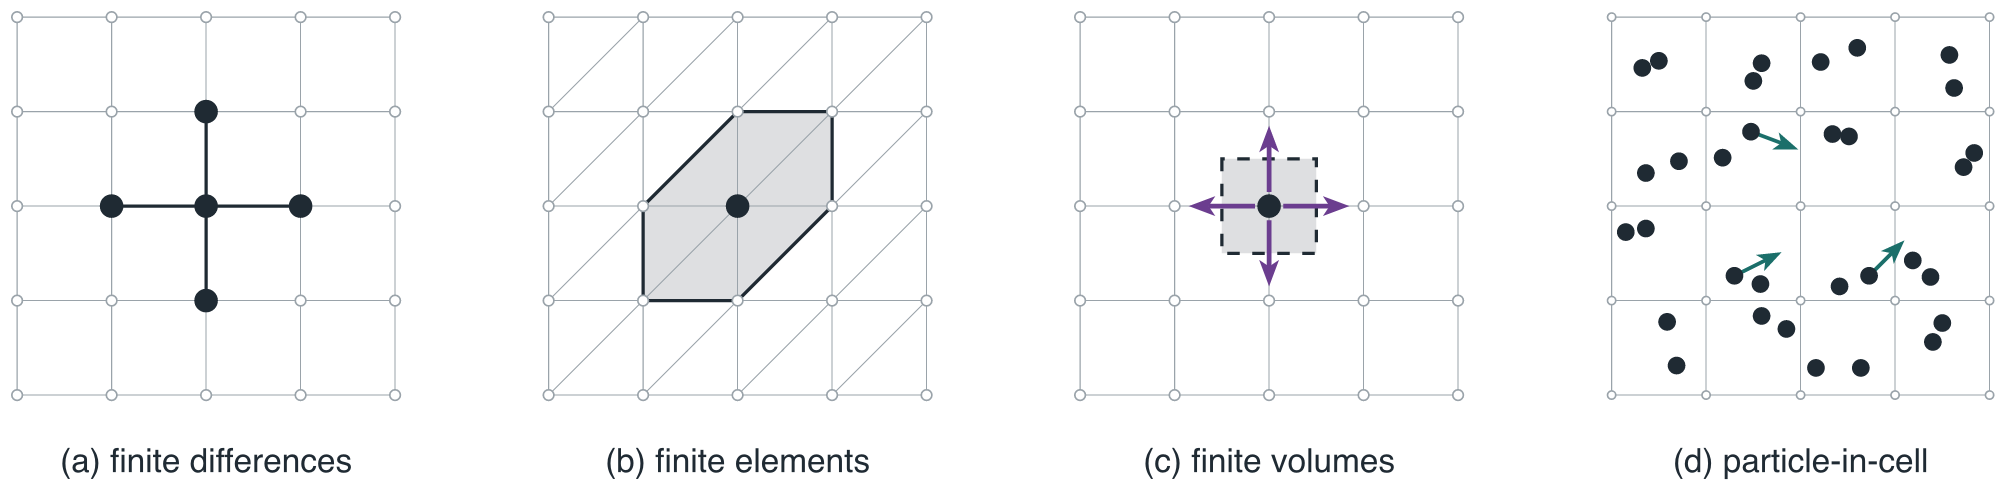
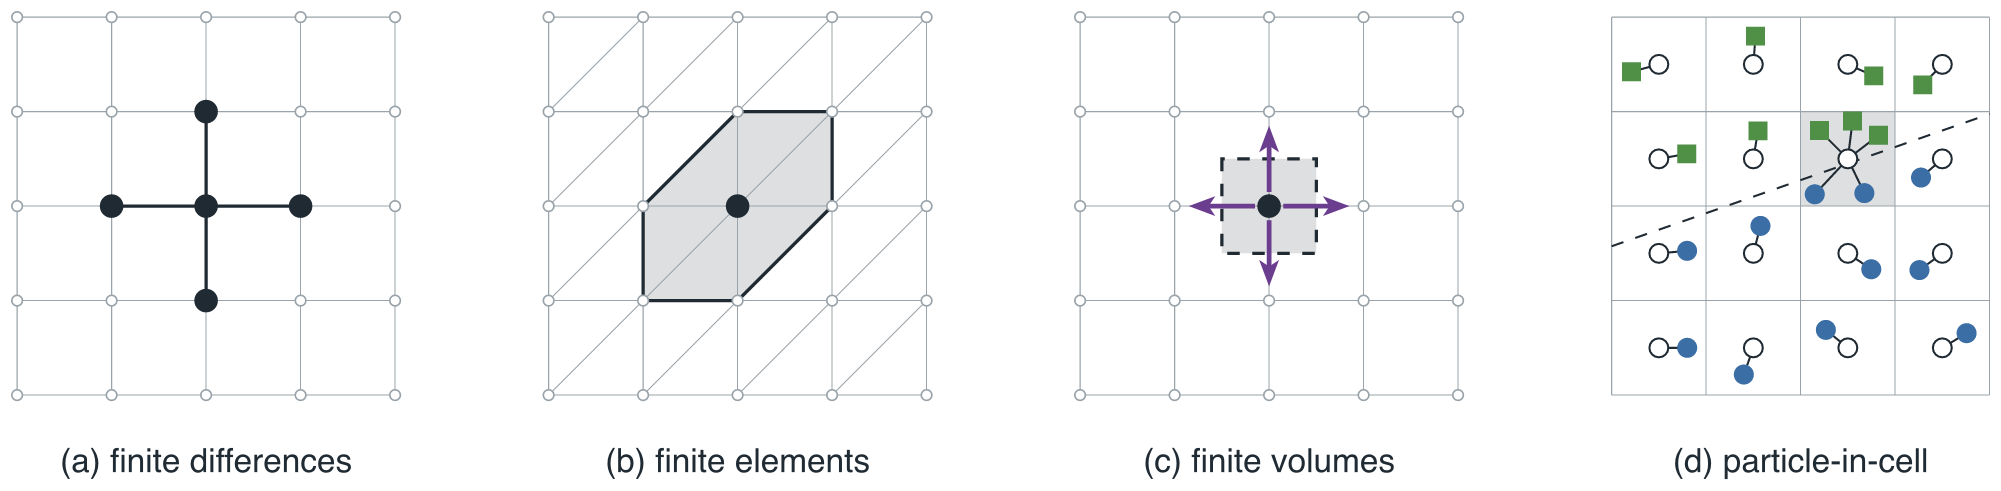
methods-compared: show particle-in-cell as projection to cell centres
Panel (d) now mirrors the FE panel: particles contribute to the centre of
the cell they occupy; most cells hold one particle, one shaded cell
holds several straddling an interface between two materials (blue
circles / green squares; shapes differ because the two colours have
similar grey values). Adds material-a/material-b tokens to primerfig.

Claude-Session: https://claude.ai/code/session_01HxWvn7EzMowEQ4ZteSHc8e

diff --git a/WebBook/Part4-NumericalMethods/survey-of-methods.md b/WebBook/Part4-NumericalMethods/survey-of-methods.md
@@ -208,8 +208,8 @@ Obviously there is not room to do justice to any particular method --- or (god f
 
 :::{figure} ../Images/Diagrams/methods-compared.svg
 :label: fig-methods-compared
-:alt: Four square grids side by side. The first highlights a cross-shaped five-node stencil. The second is triangulated and shades the hexagonal patch of six triangles around one node. The third outlines a dashed square around one node with four arrows pointing out through its faces. The fourth shows scattered dots inside the grid cells, three of them with short arrows.
-The same patch of domain as each method represents it. (a) Finite differences store point values at the nodes; the derivative at the centre node uses the five-point stencil (dark nodes). (b) Finite elements interpolate between nodes with basis functions; the basis function of the dark node is non-zero only on the six triangles that share it (shaded). (c) Finite volumes store the average over a control volume (dashed) and balance the fluxes through its faces (arrows). (d) Particle-in-cell methods carry material properties on particles (dots) that move with the flow (arrows) through a fixed background grid.
+:alt: Four square grids side by side. The first highlights a cross-shaped five-node stencil. The second is triangulated and shades the hexagonal patch of six triangles around one node. The third outlines a dashed square around one node with four arrows pointing out through its faces. The fourth shows a grid of cells, each with an open circle at its centre joined by short lines to the particles inside it; blue circular particles lie below a dashed diagonal interface and green square particles above it, and one shaded cell on the interface holds five particles of both kinds.
+The same patch of domain as each method represents it. (a) Finite differences store point values at the nodes; the derivative at the centre node uses the five-point stencil (dark nodes). (b) Finite elements interpolate between nodes with basis functions; the basis function of the dark node is non-zero only on the six triangles that share it (shaded). (c) Finite volumes store the average over a control volume (dashed) and balance the fluxes through its faces (arrows). (d) Particle-in-cell methods carry material properties on particles that move with the flow through a fixed grid; each particle contributes to the cell it occupies, here represented by its centre (open circles). Most cells hold one particle; the shaded cell holds several, from both sides of an interface between two materials (circles and squares), and receives a mixture of their properties.
 :::
 
 ### Finite Differences
